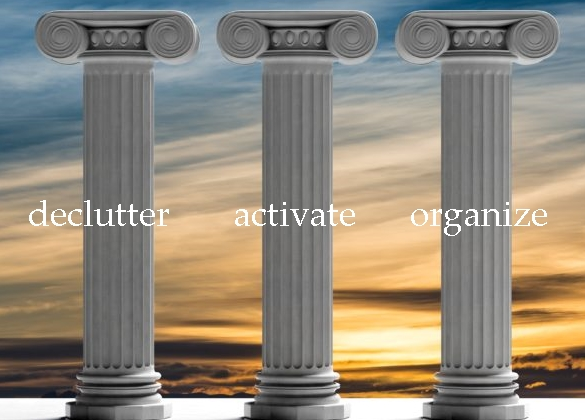
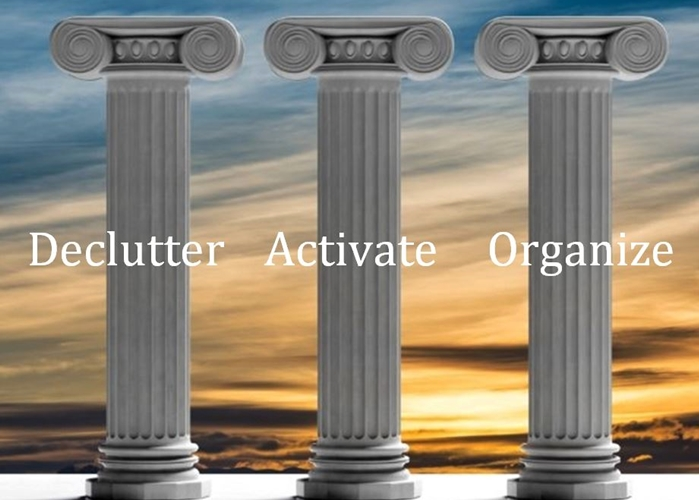
new workshops page

diff --git a/workshops.html b/workshops.html
@@ -25,54 +25,119 @@
 
     <div id="main">
 
-      <h1>Workshop</h1>
+      <h1>Workshops</h1>
 
-      <h2>&ldquo;Writing for Clarity&rdquo; modules</h2>
+      <h2>Learn to engage your readers better</h2>
 
-      <img class="page_image" src="images/2pillars.jpg" alt="Three marble pillars with the words declutter, activate, organize written across the front">
+      <div id="collage">
+        <div id="top-row">        
+            <div id="top-row-image"><a href="#pillars"><img src="images/2pillars.jpg"></a></div>
+          <div id="top-row-text">
+            <h3 class="bold"><a href="#pillars">Writing for Clarity</a></h3>
+            <p>Practise the three pillars of effective writing:<br>
+            decluttering, activating, and organizing.<br>
+            Learn how to create reader-friendly text.</p>
+          </div>
+        </div>
+        <div id="bottom-row">
+          <div id="bottom-row-text">
+            <h3 class="bold"><a href="#yoga">Yoga for your Story</a></h3>
+            <p>Stretch and strengthen your<br>
+            &ldquo;author muscles,&rdquo; and learn all<br>
+            about the vital elements of writing fiction.</p>
+          </div>
+            <div id="bottom-row-image"><a href="#yoga"><img src="images/yoga.jpg"></a></div>
+        </div>              
+      </div>
 
-      <p>In this workshop, you’ll learn about the three pillars of effective writing:<br>
-        Decluttering, Activating, and Organizing.</p>
+      <hr>
+
+      <img class="page_image" id="pillars" src="images/2pillars.jpg" alt="Three marble pillars with the words declutter, activate, organize written across the front">
+
+      <h2>&ldquo;Writing for Clarity&rdquo;</h2>
+
+      <p>Want to write text that&rsquo; concise, clear, and easy for your audience to understand?</p>
+
+      <p>Originally designed for government staff, this workshop is equally useful for corporations,
+        associations, agencies, and any other group that values clarity in its communications.</p>
+
+      <p>Each of the three independent modules takes about three hours:</p>
 
       <ul class="no-style">
         <li>
-          <span class="bold">Writing for Clarity 1:</span> Declutter your message
+          Writing for Clarity 1: Declutter your message
         </li>
 
         <li>
-          <span class="bold">Writing for Clarity 2:</span> Activate your text
+          Writing for Clarity 2: Activate your text
         </li>
 
         <li>
-          <span class="bold">Writing for Clarity 3:</span> Organize your ideas
+          Writing for Clarity 3: Organize your ideas
         </li>
       </ul>
 
-      <p>These basic strategies will help you learn to write text that&rsquo;s concise, clear, and easy for your audience to understand.</p>
+      <p>Ideally, this interactive course should be delivered to groups of 8-15 participants.</p>
 
-      <p>Once you master the techniques, you can apply your new skills to creating all kinds of reader-friendly content.</p>
+      <h2>Take your text from &ldquo;dull&rdquo; to &ldquo;dynamic&rdquo;</h2>
 
-      <p class="bold">From &ldquo;dull&rdquo; to &ldquo;dynamic&rdquo;</p>
-
-      <p>As a professional editor, I&rsquo;ve spent several decades helping writers to improve their text.<br>
-        Now you can learn my secrets—such as how to:</p>
+      <p>As a professional editor, I&rsquo;ve spent several decades helping writers to
+        improve their text.<br>
+      Pen-and-Paper exercises help participants to practise their new skills&ndash;such as how to:</p>
 
       <ul>
-        <li>cull repetition, redundancy and deadwood from your sentences</li>
-        <li>use language more concisely</li>
         <li>avoid needlessly wordy phrases</li>
+        <li>cull repetition, redundancy and deadwood from your sentences</li>
         <li>use verbs instead of nouns, to give your text more energy</li>
         <li>eliminate the passive voice</li>
         <li>give every paragraph a clear identity</li>
         <li>craft a strong introduction and conclusion.</li>
       </ul>
 
-      <p>Originally designed for government employees, this interactive course consists of three
-          independent modules, each best delivered in a three-hour block of time. Pen-and-paper
-          exercises give participants hands-on practice at how to be a better writer.</p>
+      <p><a href="about.html">Contact me</a> to learn more about booking the Writing for Clarity workshop,
+        including timing and cost.</p>
 
-      <p><a href="about.html">Contact me</a> to learn more about booking this workshop, including timing and cost.</p>
+      <hr>
 
+      <img class="page_image" id="yoga" src="images/yoga.jpg">
+
+      <h2>Yoga for Your Story</h2>
+
+      <p>Become a better writer in just a few weeks!</p>
+      <p>My interactive course teaches you some of the strategies used by professional
+        fiction editors&ndash;such as how to:</p>
+      
+      <ul>
+        <li>lead with strength</li>
+        <li>think about what motivates your characters</li>
+        <li>visualize your scenes from a reader&rsquo;s perspective</li>
+        <li>use verbs to make your text more vigorous</li>
+        <li>map your narrative arc</li>
+        <li>develop an ear for dialogue</li>
+        <li>avoid the most common writing mistakes</li>
+        <li>make sure that every word tells.</li>
+      </ul>
+
+      <h2>Improve your writing skills</h2>
+      
+      <p>My goal is for you to leave every meeting with your head full of new ideas.</p>
+      <p>Sessions are flexible in terms of content, tailored to the individual needs of the participants. 
+        In each session, you&rsquo;ll do some or all of these things:</p>
+
+      <ul>
+        <li>analyze a piece of your own writing, and a piece by other group members</li>
+        <li>discuss the specific problems you have with your work</li>
+        <li>write some new material</li>
+        <li>practise the writing techniques I&rsquo;ll show you</li>
+        <li>vent about your passion for (and frustration with!) the writing life.</li>
+      </ul>
+
+      <p>The group meets for three hours in the evening, once a week, for a six-week period.
+        The time and place can be arranged to suit the convenience of participants.</p>
+
+      <p>Visit my fiction website, <a href="https://www.thefictionportal.com/workshop">The Fiction Portal</a>
+        to learn about upcoming &ldquo;Yoga for Your Story&rdquo; courses.</p>
+    
     </div>
   </div>
 

diff --git a/css/workshops.css b/css/workshops.css
@@ -3,3 +3,34 @@
   width: 100%;
   margin: auto;
 }
+
+#collage {
+  width: 100%;
+  height: 500px;
+  margin: 50px 0px 20px;
+}
+
+#top-row, #bottom-row {
+  height: 50%;
+}
+
+#top-row-text, #bottom-row-text {
+  display: inline-block;
+}
+
+#top-row-image, #bottom-row-image {
+  display: inline-block;
+  height: 100%;
+}
+
+#top-row-image img, #bottom-row-image img {
+  height: 90%
+}
+
+#bottom-row-image, #top-row-text {
+  float: right;
+}
+
+.page_image {
+  margin-top: 40px;
+}

diff --git a/css/styles.css b/css/styles.css
@@ -120,3 +120,13 @@ img.divider {
 .center-text {
 	text-align: center;
 }
+
+hr {
+	height: 2px;
+	border: none;
+	color: #000000;
+	background-color: #000000;
+	width: 70%;
+	text-align: center;
+	margin: 20px auto;
+}
